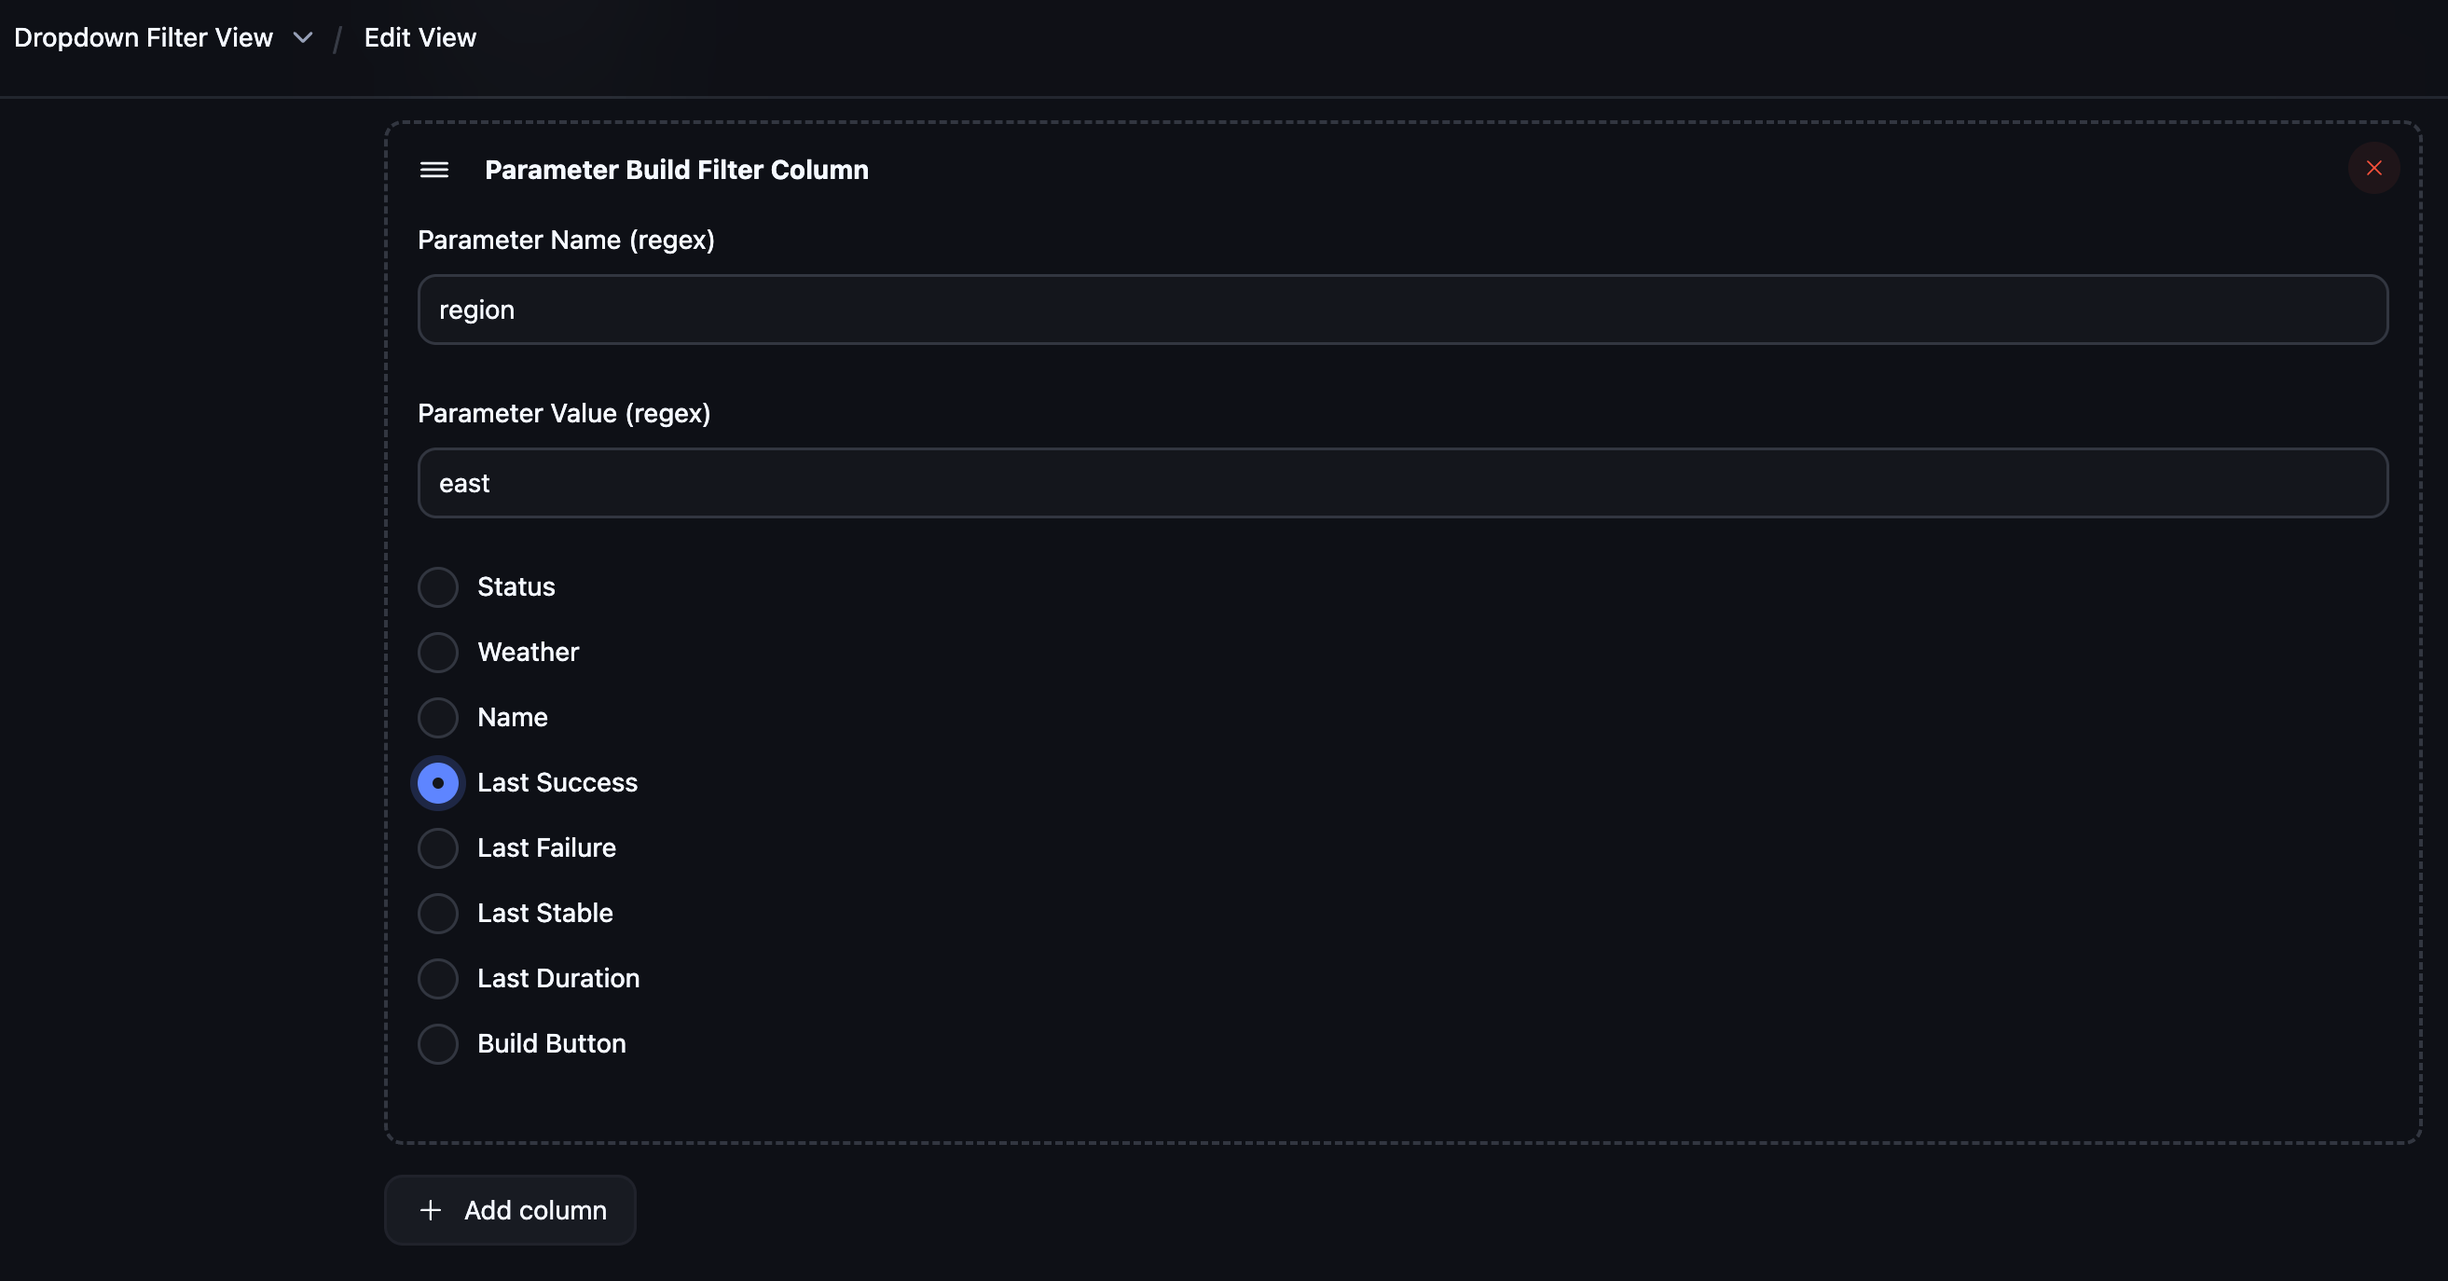
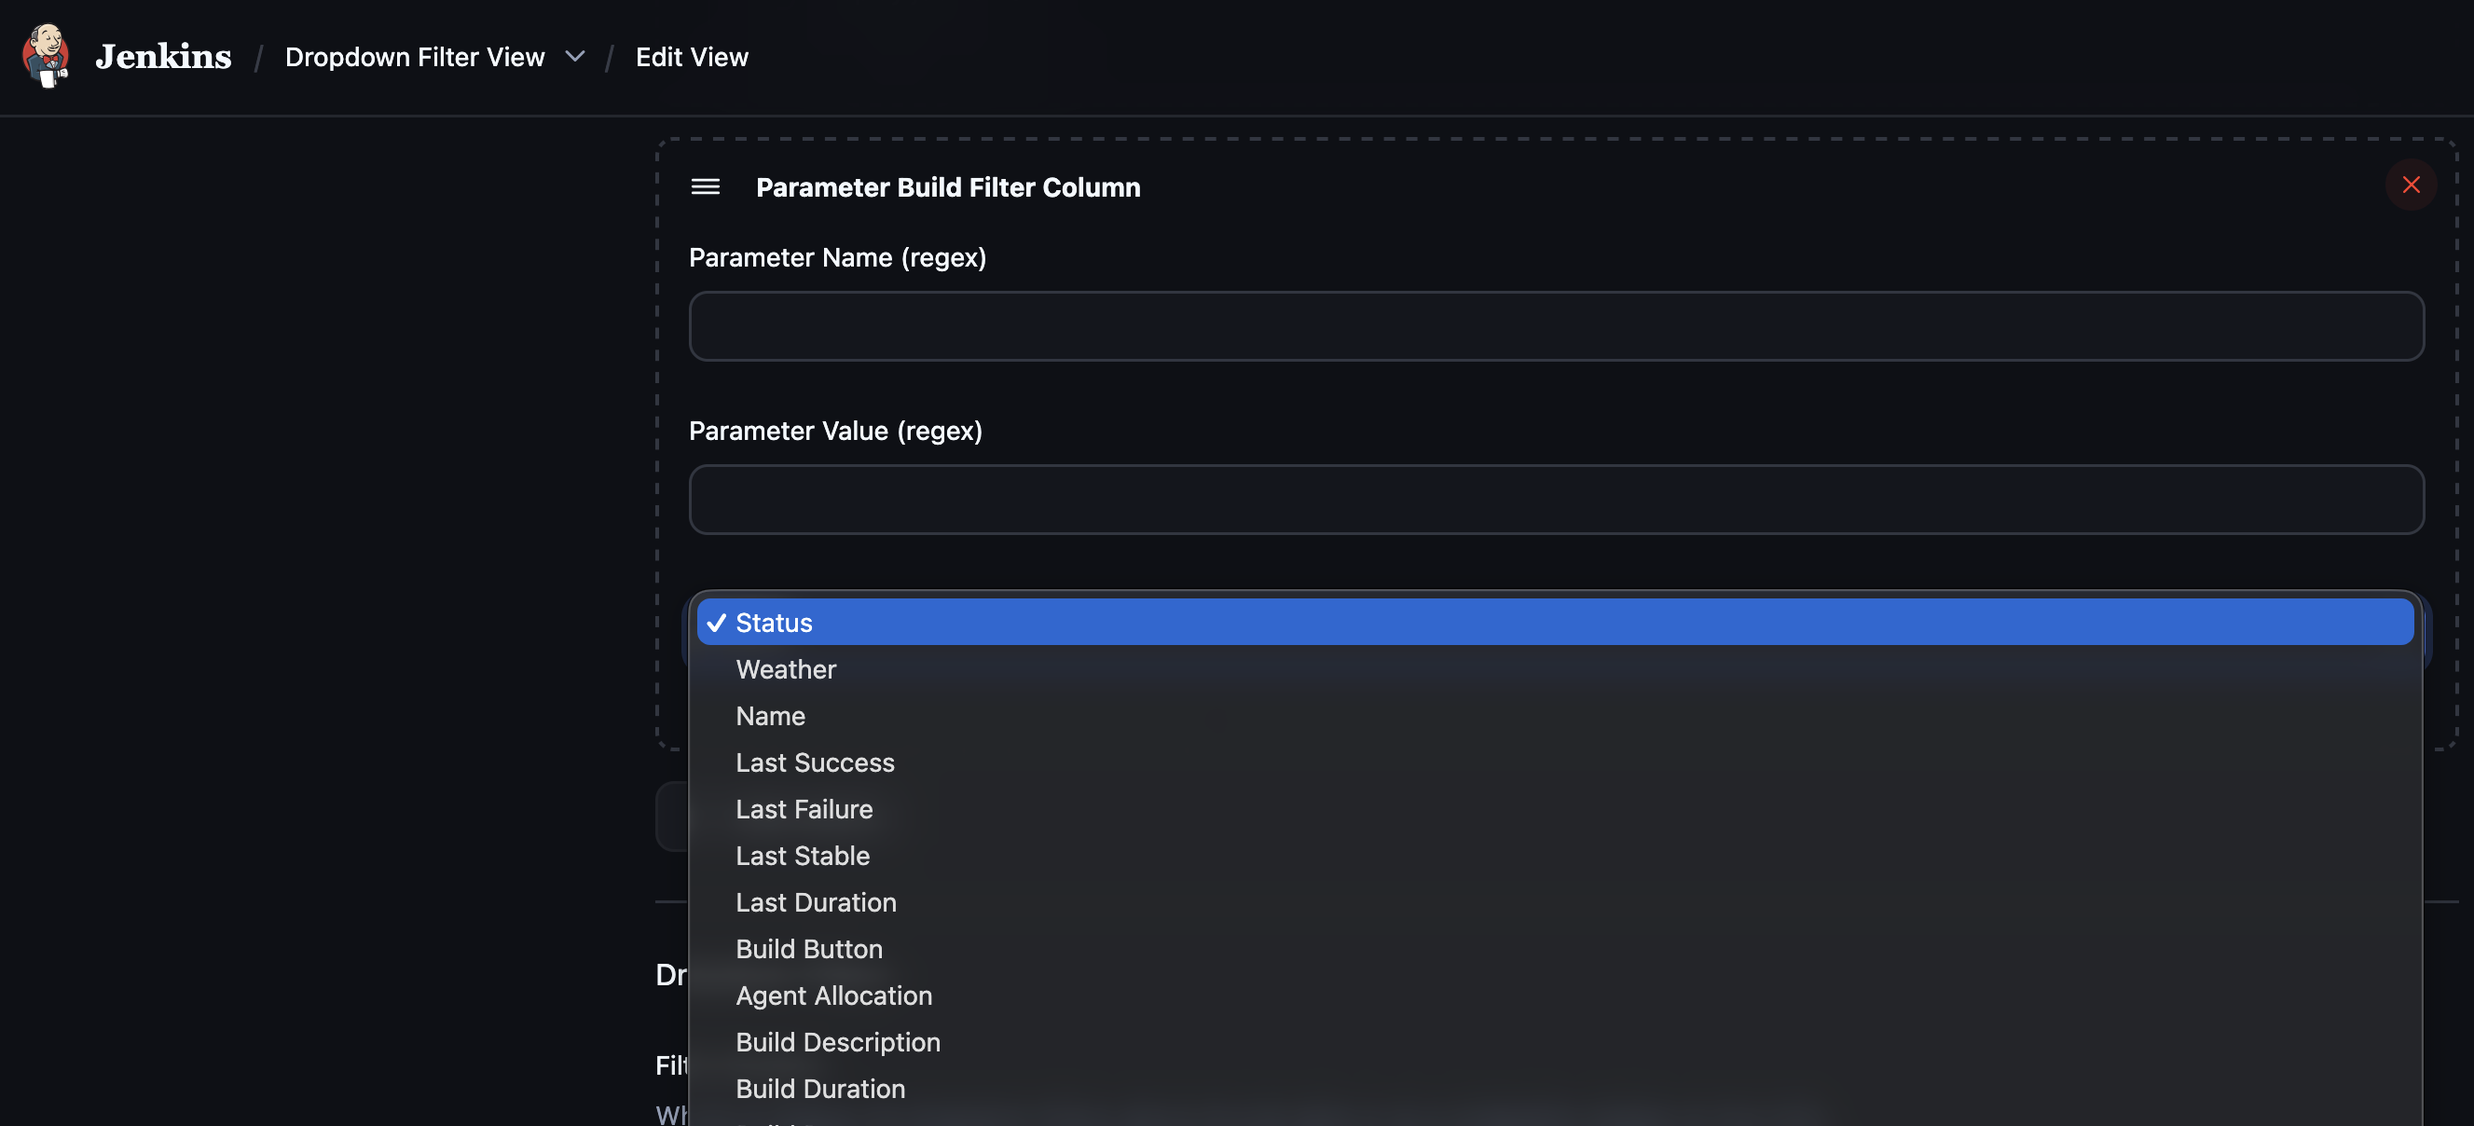
Enhance filter bar functionality and documentation with new layout options and improved guidelines

diff --git a/src/main/webapp/js/dropdown-view.js b/src/main/webapp/js/dropdown-view.js
@@ -13,17 +13,39 @@
         // Place bar inside .dashboard, between tab bar and table
         var tabBar = document.getElementById('projectstatus-tabBar');
         var dashboard = tabBar ? tabBar.parentNode : null;
-        if (!dashboard) return;
 
-        var desktopTable = dashboard.querySelector('.jenkins-mobile-hide');
+        // Fallback: when no jobs match, Jenkins omits the dashboard/projectstatus-tabBar.
+        // Look for the .tabBarFrame instead so the filter bar still appears.
+        if (!dashboard) {
+            var tabFrame = document.querySelector('.tabBarFrame');
+            if (!tabFrame) return;
+            var parent = tabFrame.parentNode;
 
-        if (position === 'sidebar' && desktopTable) {
-            initSidebar(bar, desktopTable, dashboard, tabBar);
+            if (position === 'sidebar') {
+                // Wrap remaining content + bar in a sidebar layout
+                var emptyContent = tabFrame.nextElementSibling;
+                var wrapper = document.createElement('div');
+                wrapper.classList.add('dvf-sidebar-wrapper');
+                parent.insertBefore(wrapper, emptyContent);
+                if (emptyContent) wrapper.appendChild(emptyContent);
+                wrapper.appendChild(bar);
+                bar.classList.remove('jenkins-hidden');
+            } else {
+                parent.insertBefore(bar, tabFrame.nextSibling);
+                bar.classList.remove('jenkins-hidden');
+                bar.classList.add('dvf-filter-bar--sticky');
+            }
         } else {
-            // Top mode: insert bar between tab bar and table, sticky on scroll
-            dashboard.insertBefore(bar, tabBar.nextSibling);
-            bar.classList.remove('jenkins-hidden');
-            bar.classList.add('dvf-filter-bar--sticky');
+            var desktopTable = dashboard.querySelector('.jenkins-mobile-hide');
+
+            if (position === 'sidebar' && desktopTable) {
+                initSidebar(bar, desktopTable, dashboard, tabBar);
+            } else {
+                // Top mode: insert bar between tab bar and table, sticky on scroll
+                dashboard.insertBefore(bar, tabBar.nextSibling);
+                bar.classList.remove('jenkins-hidden');
+                bar.classList.add('dvf-filter-bar--sticky');
+            }
         }
 
         // Restore collapse state from localStorage

diff --git a/README.md b/README.md
@@ -1,6 +1,6 @@
 # Dynamic View Filter Plugin
 
-[![Build Status](https://ci.jenkins.io/job/Plugins/job/dynamic-view-filter-plugin/job/main/badge/icon)](https://ci.jenkins.io/job/Plugins/job/dynamic-view-filter-plugin/job/main/)
+[![Build Status](https://ci.jenkins.io/buildStatus/icon?job=Plugins%2Fdynamic-view-filter-plugin%2Fmain)](https://ci.jenkins.io/job/Plugins/job/dynamic-view-filter-plugin/job/main/)
 [![Jenkins Plugin](https://img.shields.io/jenkins/plugin/v/dynamic-view-filter.svg)](https://plugins.jenkins.io/dynamic-view-filter)
 [![Jenkins Plugin Installs](https://img.shields.io/jenkins/plugin/i/dynamic-view-filter.svg?color=blue)](https://plugins.jenkins.io/dynamic-view-filter)
 [![Contributors](https://img.shields.io/github/contributors/jenkinsci/dynamic-view-filter-plugin.svg)](https://github.com/jenkinsci/dynamic-view-filter-plugin/graphs/contributors)
@@ -9,7 +9,7 @@ Dynamic view filters with auto-populated dropdown menus, build filter columns, a
 
 ## What does this plugin do?
 
-Imagine you have hundreds of Jenkins jobs organized in folders — different projects, platforms, and environments. Normally you'd scroll through all of them or create dozens of separate views manually.
+Imagine you have hundreds of Jenkins jobs organized in folders, different projects, platforms, and environments. Normally you'd scroll through all of them or create dozens of separate views manually.
 
 This plugin lets you:
 
@@ -17,17 +17,51 @@ This plugin lets you:
 - **Show only relevant build results in columns.** If you filter by a parameter (e.g., `region=east`), the Status, Last Success, and Last Failure columns update to reflect only matching builds — not just the latest build regardless.
 - **Works with all job types.** The upstream `BuildFilterColumn` from View Job Filters can break with Pipeline (Jenkinsfile) jobs. This plugin handles Pipeline, FreeStyle, Matrix, and any other job type reliably.
 
-In short: **dynamic dropdowns that filter both your job list and the build data shown in columns, with zero manual maintenance.**
+In short, dynamic dropdowns that filter both your job list and the build data shown in columns, with no manual maintenance.
 
 ## Screenshots
 
-### Dropdown Filter View
+### Dropdown Filter View - Top Mode
 
-Auto-populated dropdown menus at the top of the view for filtering jobs instantly.
+Filter bar at the top with horizontally arranged dropdowns, Reset button, and Filters toggle.
 
-![Dropdown Filter View](docs/images/dropdown-filter-view.png)
+![Top Mode — Expanded](docs/images/dropdown-filter-view-top-expanded.png)
 
-### Dropdown Filter Configuration
+With a filter applied (Project = `plugins`), only matching jobs are shown:
+
+![Top Mode — Filtered](docs/images/dropdown-filter-view-top-filtered.png)
+
+Collapsed state, only the toggle icon remains:
+
+![Top Mode — Collapsed](docs/images/dropdown-filter-view-top-collapsed.png)
+
+### Dropdown Filter View - Sidebar Mode
+
+Filter bar as a sidebar on the right with vertically stacked dropdowns.
+
+![Sidebar Mode — Expanded](docs/images/dropdown-filter-view-sidebar-expanded.png)
+
+With a filter applied (Project = `jenkins`), only matching jobs are shown:
+
+![Sidebar Mode — Filtered](docs/images/dropdown-filter-view-sidebar-filtered.png)
+
+Collapsed state, sidebar collapses to a compact icon strip:
+
+![Sidebar Mode — Collapsed](docs/images/dropdown-filter-view-sidebar-collapsed.png)
+
+### Configuration
+
+#### Dropdown Filters
+
+Add dropdown definitions with Job Name Regex or Build Parameter source types.
+
+![Dropdown Filters Config](docs/images/dropdown-view-config-dropdown-filters.png)
+
+#### Filter Position
+
+Choose where the filter bar appears: top or sidebar.
+
+![Filter Position Config](docs/images/dropdown-view-config-filter-position.png)
 
 #### Job Name Regex Source
 
@@ -40,6 +74,18 @@ Extract dropdown values from job folder paths using a regex capture group.
 Populate dropdown values from actual build parameter values.
 
 ![Build Parameter Filter](docs/images/dropdown-view-build-parameter-filter.png)
+
+#### Columns
+
+Configure Dynamic Build Filter Column and Parameter Build Filter Column.
+
+![Columns Config](docs/images/dropdown-view-config-columns.png)
+
+#### Job Filters
+
+Add Parameter Run Matcher Filter to the Job Filters section.
+
+![Job Filters Config](docs/images/dropdown-view-config-job-filters.png)
 
 ### Dynamic Build Filter Column
 
@@ -87,16 +133,25 @@ Multiple dropdowns combine with AND logic. All standard ListView features (colum
 
 > **Important:** The Dropdown Filter View is a ListView — it only sees jobs that match the view's **Include jobs by regex** field. You must configure a regex pattern (e.g., `.*`) and enable **Recurse in subfolders** in the view configuration for the dropdowns to discover and filter jobs. The dropdown regex/parameter filters narrow down from this base set.
 
+#### Filter Bar Position
+
+The filter bar can be positioned in two modes, configurable in the view settings:
+
+| Position | Description |
+|---|---|
+| **Top** | Horizontal bar above the job table. Dropdowns are arranged in a flex row. Sticky on scroll. |
+| **Sidebar** | Vertical panel on the right side of the job table. Dropdowns stacked vertically. Sticky on scroll. |
+
 #### Filter Bar Behavior
 
 - **Collapsible:** Click the **Filters** toggle to collapse or expand the filter bar. The state is persisted in `localStorage` — it remembers your preference across page loads.
 - **Auto-submit:** Selecting a value in any dropdown immediately applies the filter (no submit button needed).
-- **Clear All:** Resets all dropdowns to "-- All --" and resubmits, without a full page reload.
+- **Reset:** Resets all dropdowns to "-- All --" and resubmits.
 - **Only actual jobs shown:** Folder items are automatically excluded from the job table — only `Job` items (Pipeline, FreeStyle, Matrix, etc.) appear in the filtered results.
 
 Here is an example with the PROJECT dropdown set to `jenkins` — only matching jobs are shown:
 
-![Filtered View Example](docs/images/dropdown-filter-view-filtered-01.png)
+![Filtered View Example](docs/images/dropdown-filter-view-top-filtered.png)
 
 #### Regex Pattern Tips
 
@@ -168,6 +223,7 @@ Supports:
   <name>My Filtered View</name>
   <includeRegex>projects/.*/.*</includeRegex>
   <recurse>true</recurse>
+  <filterPosition>top</filterPosition>
   <dropdowns>
     <io.jenkins.plugins.dynamic_view_filter.DropdownDefinition>
       <label>Project</label>

diff --git a/docs/USAGE_SCENARIOS.md b/docs/USAGE_SCENARIOS.md
@@ -123,7 +123,7 @@ The upstream `BuildFilterColumn` from View Job Filters breaks with Pipeline jobs
 
 ### Expected Outcome
 
-- Dynamic Build Filter Column resolves the parent view at render time from the Stapler request context — no stored XStream references.
+- Dynamic Build Filter Column resolves the parent view at render time from the Stapler request context instead of using stored XStream references.
 - Pipeline jobs render correctly with filtered build data.
 - FreeStyle, Matrix, and other job types continue to work as before.
 
@@ -133,7 +133,7 @@ The upstream `BuildFilterColumn` from View Job Filters breaks with Pipeline jobs
 
 ### Problem
 
-You have parameters with varying names across jobs — `deploy_region`, `target_region`, `aws_region` — and you want a single filter to match any of them when the value is `us-east-1`.
+You have parameters with varying names across jobs (`deploy_region`, `target_region`, `aws_region`) and you want a single filter to match any of them when the value is `us-east-1`.
 
 ### Setup
 
@@ -203,3 +203,74 @@ Some jobs are defined with default parameter values but haven't been built yet. 
 | Replace broken `BuildFilterColumn` for Pipeline jobs | Dynamic Build Filter Column |
 | Filter by job folder path / naming convention | Dropdown Filter View with Job Name Regex source |
 | Filter by actual build parameter values with auto-discovery | Dropdown Filter View with Build Parameter source |
+
+---
+
+## Scenario 9: Sidebar Filter Layout for Wide Tables
+
+### Problem
+
+You have many columns in the job table and placing the filter bar at the top pushes the table down too far, especially with many dropdown filters. You want the filters on the side so users can see both filters and the table at the same time.
+
+### Setup
+
+1. Open the **Dropdown Filter View** configuration.
+2. Set **Filter Position** to **Sidebar**.
+3. Save.
+
+### Expected Outcome
+
+- The filter bar appears as a vertical panel on the right side of the job table.
+- Dropdowns are stacked vertically in the sidebar.
+- The sidebar sticks to the viewport while scrolling (sticky positioning).
+- Collapsing the sidebar reduces it to a compact icon strip, giving the table full width.
+
+---
+
+## Scenario 10: Multi-Level Folder Path Extraction
+
+### Problem
+
+Your jobs are organized in a deep folder hierarchy like `project/region/module/platform/component/action`. You want separate dropdowns for module, platform, component, and action — but each dropdown regex can only extract one capture group.
+
+### Setup
+
+1. Create a **Dropdown Filter View**.
+2. Set **Include jobs by regex** to `project/region/.*/.*/.*/.*` and enable **Recurse in subfolders**.
+3. Add four dropdowns, each extracting a different path segment into group 1:
+
+| Label | Job Name Pattern |
+|---|---|
+| Module | `project/region/([^/]+)/.*` |
+| Platform | `project/region/[^/]+/([^/]+)/.*` |
+| Component | `project/region/[^/]+/[^/]+/([^/]+)/.*` |
+| Action | `project/region/[^/]+/[^/]+/[^/]+/([^/]+)` |
+
+Note: use `[^/]+` (non-capturing) for path segments you want to skip, and `([^/]+)` (capturing group 1) for the segment you want to extract.
+
+### Expected Outcome
+
+- Four dropdowns appear: Module, Platform, Component, Action.
+- Each auto-populates with the distinct values from its respective path segment.
+- Selecting `payments` + `linux` filters to only jobs for the payments module on Linux.
+- All four dropdowns combine with AND logic.
+
+---
+
+## Scenario 11: Collapsible Filter Bar for Clean Dashboards
+
+### Problem
+
+You have a dashboard view on a wall-mounted monitor. Most of the time, users just want to see the job table without filter UI clutter. Occasionally they need to apply a filter.
+
+### Setup
+
+1. Configure the **Dropdown Filter View** with dropdowns (top or sidebar mode).
+2. No special configuration needed — the collapse feature is built in.
+
+### Expected Outcome
+
+- The filter bar shows a **Filters** toggle button (options icon) and a **Reset** button.
+- Clicking the toggle collapses the filter bar: in top mode the dropdowns hide and only icons remain; in sidebar mode the sidebar shrinks to a compact icon strip.
+- The collapse state persists across page loads via `localStorage`.
+- Clicking the toggle again expands the filters back.

diff --git a/docs/BUILD.md b/docs/BUILD.md
@@ -39,13 +39,17 @@ dynamic-view-filter-plugin/
 │   │           │   └── index.jelly              # Extension point description
 │   │           ├── DropdownFilterView/
 │   │           │   ├── main.jelly               # View rendering with dropdowns
-│   │           │   ├── view.js                  # CSP-compliant external JS for filter bar
 │   │           │   ├── configure-entries.jelly   # View configuration form
 │   │           │   └── newViewDetail.jelly       # Create View dialog description
 │   │           ├── DropdownDefinition/
 │   │           │   ├── config.jelly             # Dropdown source type config
 │   │           │   └── config.js                # CSP-compliant external JS for field toggling
 │   │           └── Messages.properties          # Display name strings
+│   ├── webapp/
+│   │   ├── css/
+│   │   │   └── dropdown-view.css                # Filter bar styles (top + sidebar)
+│   │   └── js/
+│   │       └── dropdown-view.js                 # Filter bar behavior (collapse, submit, sidebar)
 │   └── test/java/io/jenkins/plugins/dynamic_view_filter/
 │       ├── DynamicBuildFilterColumnTest.java     # 10 tests
 │       └── DropdownFilterViewTest.java           # 8 tests
@@ -62,8 +66,16 @@ dynamic-view-filter-plugin/
     ├── BUILD.md                                 # This file
     ├── USAGE_SCENARIOS.md                       # Detailed usage scenarios
     └── images/                                  # Screenshots for README
-        ├── dropdown-filter-view.png
-        ├── dropdown-filter-view-filtered-01.png
+        ├── dropdown-filter-view-top-expanded.png
+        ├── dropdown-filter-view-top-filtered.png
+        ├── dropdown-filter-view-top-collapsed.png
+        ├── dropdown-filter-view-sidebar-expanded.png
+        ├── dropdown-filter-view-sidebar-filtered.png
+        ├── dropdown-filter-view-sidebar-collapsed.png
+        ├── dropdown-view-config-dropdown-filters.png
+        ├── dropdown-view-config-columns.png
+        ├── dropdown-view-config-filter-position.png
+        ├── dropdown-view-config-job-filters.png
         ├── dropdown-view-build-parameter-filter.png
         ├── dropdown-view-job-name-regex-filter.png
         ├── dynamic-build-filter-column.png

diff --git a/CONTRIBUTING.md b/CONTRIBUTING.md
@@ -87,7 +87,7 @@ mvn spotless:apply
 
 ## Pull Request Guidelines
 
-- Keep PRs focused — one logical change per PR.
+- Keep PRs focused. One logical change per PR.
 - Include tests for new functionality.
 - Ensure `mvn clean verify` passes with zero warnings from SpotBugs.
 - Update `README.md` or docs if the change affects user-facing behavior.
